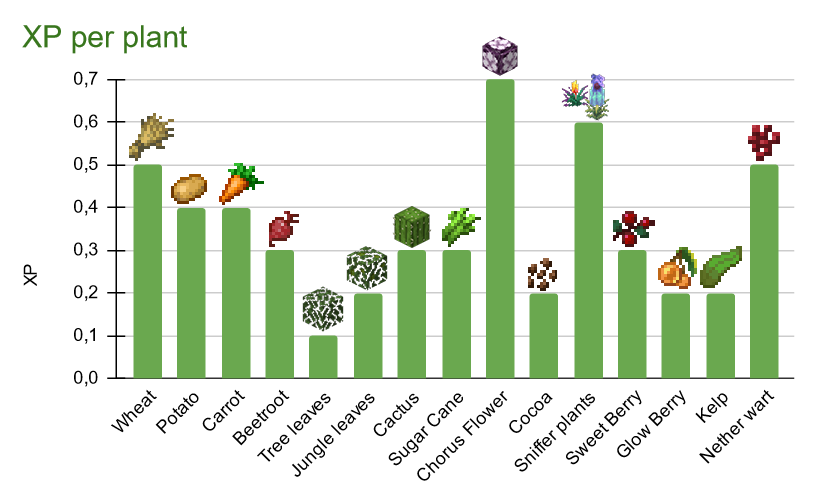
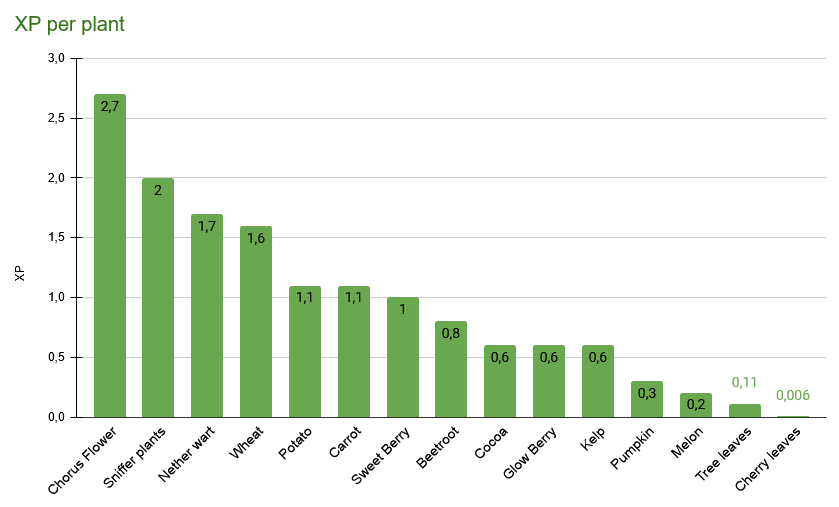
vegancraft 1.5.2

diff --git a/pages/vegancraft/main.md b/pages/vegancraft/main.md
@@ -4,19 +4,19 @@ keywords: minecraft, datapack, baking, cooking, food, vegan, veganism, plant-bas
 tags: [datapack, vegancraft, collection, crafting, food, info]
 sidebar: home_sidebar
 toc: true
-last_updated: 07/Oct/2025
+last_updated: 12/Nov/2025
 permalink: vegancraft.html
 published: true
 github: https://github.com/daenvil/vegancraft
 pmc-collection: https://www.planetminecraft.com/collection/162672/daenvil-s-vegancraft/
 first_release: ["17","Jun","2022"]
-last_release: ["06","Oct","2025"]
+last_release: ["12","Nov","2025"]
 logo: vegancraft/pack.png
 intro: "Vegancraft is a semi-modular datapack which makes a vegan gamestyle possible in a vanilla-like way without missing any game features. Tired of killing cows to make books and item frames? Tired of using sheep to make beds? This datapack is for you.<br/><br/>You can either download the full thing as a single datapack or <a href=#features>download some single features as individual datapacks</a>."
 abstract: "A merged version of every Vegancraft datapack, plus some additional features. Makes a vegan gamestyle possible in a vanilla-like way without missing any game features."
 index: 16
-downloads: 4229
-downloads_str: "&gt;4.2k"
+downloads: 4400
+downloads_str: "&gt;4.4k"
 ---
 
 ## Full datapack download
@@ -33,9 +33,9 @@ Choose the option compatible with your Minecraft version:
 <div class="tab-content">
     <div role="tabpanel" class="tab-pane active" id="1-21-9">
         <p>
-            {% include dp_badges.html supports="1.21.9+" tested="1.21.9" %}
+            {% include dp_badges.html supports="1.21.9+" tested="1.21.10" %}
             <br/>
-            {% include dp_download.html version="v1.5.1" github-url="https://github.com/daenvil/vegancraft/releases/download/v1.5.1/vegancraft-DP_v1.5.1.zip" rp-version="v1.5.1" rp-github-url="https://github.com/daenvil/vegancraft/releases/download/v1.5.1/vegancraft-RP_v1.5.1.zip" %}
+            {% include dp_download.html version="v1.5.2" github-url="https://github.com/daenvil/vegancraft/releases/download/v1.5.2/vegancraft-DP_v1.5.2.zip" rp-version="v1.5.1" rp-github-url="https://github.com/daenvil/vegancraft/releases/download/v1.5.1/vegancraft-RP_v1.5.1.zip" %}
         </p>
     </div>
     <div role="tabpanel" class="tab-pane" id="1-21-8">
@@ -186,17 +186,21 @@ A new feature that rewards players with experience for farming crops. Just as ki
 
 {% include comments/tip.html content='This feature can be toggled off/on by using the command "<b>/function dnv.vegancraft:toggle_xp_from_crops</b>". Turning it off is recommended if the server is laggy.' %}
 
-- Each plant has a certain chance to drop 1 XP. This chance is calculated based on how hard it is to reproduce and grow the plant and was balanced to be as equivalent as possible to farming animals.
-  - Certain plants do not drop any XP, either because of how easy they are to produce & harvest or because of other balance concerns. These are: bamboo, flowers, dripleaves, seagrass, vines, melons, and pumpkins. Mushrooms also are also not included for this reason. As for trees, breaking their leaves manually is the only way to obtain XP from them.
-- XP is only dropped when a player breaks the block. It's not dropped if the block is broken by explosions, pistons, etc.
+- Each plant has a certain chance to drop XP. This chance is calculated based on how hard it is to reproduce and grow the plant and was balanced to be as equivalent as possible to farming animals.
+  - Certain plants do not drop any XP, either because of how easy they are to produce & harvest or because of other balance concerns. These are: bamboo, flowers, dripleaves, seagrass, vines, and mushrooms. As for trees, they drop XP when their leaves break.
+- XP is dropped when the plant is broken, either by the player or by any other cause.
   - In the case of sweet and glow berries, XP is also obtained by harvesting them with right click.
-  - Only the block mentioned above drops XP, not any other block in the plant. For example, breaking a chorus plant does not drop XP, only directly breaking the flower does so.
   - Cactus and sugar cane do not currently drop any XP because of a bug in the game related to their block states. They will work correctly when Mojang fixes that bug.
-  - (Vegancraft only) In the case of sniffer plants (torchflower and pitcher plant), they will not drop XP from harvesting the plant with silk touch or shears. They will only do so if broken with any other tool.
+  - In the case of sniffer plants (torchflower and pitcher plant), they will not drop XP from harvesting the plant with silk touch or shears.
+
+{% include comments/tip.html content='The following command can be used to toggle on or off dropping XP from non-player interactions "<b>/function dnv.vegancraft:toggle_xp_from_crops_require_player</b>". Turning it on will require players to directly break the plants in order for them to drop xp. This is recommended if the server is laggy.' %}
+
 - XP is NOT dropped from player-placed blocks. Some plants, like kelp or chorus flowers, are planted by placing the block, but they will only drop XP after they have grown. In summary: **you can't farm XP by repeteadly placing and breaking the same block**, you will have to at least wait for the plant to grow.
-- To prevent exploiting this mechanic by using fast semi-automatic farms or spamming bone meal, **if a player gains a lot of XP in a small period of time, the chances for XP to drop will decrease for that player** until enough time has passed. The chances start decreasing at 200 gained XP and will drop to zero at 600 XP; from there, it will take ~6 minutes for the chances to recover their regular values. This system would cap at 64 XP/minute in an ideal ultra-fast farm (probably lower in a real case), which is still lower than most mob farms.
+- To prevent exploiting this mechanic by using fast semi-automatic farms or spamming bone meal, **if a player gains a lot of XP in a small period of time, the chances for XP to drop will decrease for that player** until enough time has passed. The chances start decreasing at 200 gained XP and will drop to zero at 600 XP; from there, it will take ~6 minutes for the chances to recover their regular values.
 
 {% include image/figure.html src='vegancraft/xp_per_crop.png' align='center' style='max-width:100%;' caption='Chance that each crop has to drop 1 XP. Note that XP is only dropped when a block is directly broken by a player.'%}
+
+{% include comments/tip.html content='Server admins can customize the XP output by a certain multiplier. Use the command "<b>/scoreboard players set #dnv dnv.xp_from_crops_multiplier &lt;X&gt;", replacing &lt;X&gt; by an integer number between 1 and 50, to apply that number as a multiplier to all XP given by this mechanic.' %}
 
 #### Copper Horns
 

diff --git a/pages/vegancraft/magnet_fishing.md b/pages/vegancraft/magnet_fishing.md
@@ -4,13 +4,13 @@ keywords: minecraft, datapack, fishing, iron, junk, scrap, vegan, veganism, paci
 tags: [datapack, vegancraft, standalone, simple]
 sidebar: home_sidebar
 toc: true
-last_updated: 07/Oct/2025
+last_updated: 12/Nov/2025
 permalink: magnet_fishing.html
 published: true
 github: https://github.com/daenvil/vegancraft
 pmc: https://www.planetminecraft.com/data-pack/magnet-fishing/
 first_release: ["16","Apr","2023"]
-last_release: ["06","Oct","2025"]
+last_release: ["12","Nov","2025"]
 logo: vegancraft/magnet_fishing/pack.png
 thumbnail: vegancraft/magnet_fishing/thumbnail.png
 intro: "A datapack that adds a magnet fishing rod, with which you can fish iron and iron items."
@@ -34,7 +34,7 @@ Choose the option compatible with your Minecraft version:
         <p>
             {% include dp_badges.html supports="1.21.9+" tested="1.21.9" %}
             <br/>
-            {% include dp_download.html version="v2.2.2" pmc-url="https://www.planetminecraft.com/data-pack/magnet-fishing/" github-url="https://github.com/daenvil/vegancraft/releases/download/v1.5.1/magnet_fishing_v2.2.2.zip" rp-version="v1.5.1" rp-github-url="https://github.com/daenvil/vegancraft/releases/download/v1.5.1/vegancraft-RP_v1.5.1.zip" %}
+            {% include dp_download.html version="v2.2.3" pmc-url="https://www.planetminecraft.com/data-pack/magnet-fishing/" github-url="https://github.com/daenvil/vegancraft/releases/download/v1.5.2/magnet_fishing_v2.2.3.zip" rp-version="v1.5.1" rp-github-url="https://github.com/daenvil/vegancraft/releases/download/v1.5.1/vegancraft-RP_v1.5.1.zip" %}
         </p>
     </div>
     <div role="tabpanel" class="tab-pane" id="1-21-5">

diff --git a/pages/recyclecraft/more_smeltable_items.md b/pages/recyclecraft/more_smeltable_items.md
@@ -4,7 +4,7 @@ keywords: minecraft, datapack
 tags: [datapack, recyclecraft, standalone, QoL, simple]
 sidebar: home_sidebar
 toc: true
-last_updated: 11/Oct/2025
+last_updated: 12/Nov/2025
 permalink: more_smeltable_items.html
 published: true
 pmc: https://www.planetminecraft.com/data-pack/more-smeltable-items/
@@ -16,8 +16,8 @@ intro: "Do you have tons of items that you will never use hanging around? This d
 abstract: "Adds smelting recipes to every item made of gold, iron, copper, diamond, or quartz."
 priority: 4
 index: 2
-downloads: 3670 # ~3680 before redirecting to modrinth
-downloads_str: "&gt;3.6k"
+downloads: 3800 # ~3680 before redirecting to modrinth
+downloads_str: "&gt;3.8k"
 thumbnail: recyclecraft/more_smeltable_items/thumbnail.png
 gallery: [images/recyclecraft/more_smeltable_items/thumbnail.png,https://static.planetminecraft.com/files/image/minecraft/data-pack/2021/775/15125173-screenshot-at_l.webp,https://static.planetminecraft.com/files/image/minecraft/data-pack/2021/775/15125167-screenshot-at_l.webp,https://static.planetminecraft.com/files/image/minecraft/data-pack/2021/775/15125169-screenshot-at_l.webp,https://static.planetminecraft.com/files/image/minecraft/data-pack/2021/775/15125170-screenshot-at_l.webp,https://static.planetminecraft.com/files/image/minecraft/data-pack/2021/775/15125176-screenshot-at_l.webp]
 ---

diff --git a/pages/recyclecraft/cuttable_wood.md b/pages/recyclecraft/cuttable_wood.md
@@ -4,7 +4,7 @@ keywords: minecraft, datapack
 tags: [datapack, recyclecraft, standalone, QoL, crafting]
 sidebar: home_sidebar
 toc: true
-last_updated: 06/Oct/2025
+last_updated: 12/Nov/2025
 permalink: cuttable_wood.html
 published: true
 modrinth: https://modrinth.com/datapack/cuttable-wood
@@ -17,8 +17,8 @@ intro: "A datapack that adds new recipes for the stonecutter, to make the crafti
 abstract: "Makes wood blocks cuttable in the stonecutter, to make the crafting of wooden items more comfortable and sensible."
 priority: 2
 index: 1
-downloads: 17300 # 17300 on pmc before redirecting to modrinth
-downloads_str: "&gt;17k"
+downloads: 18150 # 17300 on pmc before redirecting to modrinth
+downloads_str: "&gt;18k"
 gallery: [images/recyclecraft/cuttable_wood/thumbnail.png,images/recyclecraft/cuttable_wood/thumbnail-mc1.20.png,https://static.planetminecraft.com/files/image/minecraft/data-pack/2023/836/16842581_l.webp,https://static.planetminecraft.com/files/image/minecraft/data-pack/2023/836/16842582_l.webp,https://static.planetminecraft.com/files/image/minecraft/data-pack/2023/836/16842585_l.webp,https://static.planetminecraft.com/files/image/minecraft/data-pack/2021/836/15140459-screenshot-at_l.webp]
 ---
 

diff --git a/pages/recyclecraft/more_compostable_items.md b/pages/recyclecraft/more_compostable_items.md
@@ -4,7 +4,7 @@ keywords: minecraft, datapack
 tags: [datapack, recyclecraft, standalone, QoL]
 sidebar: home_sidebar
 toc: true
-last_updated: 06/Oct/2025
+last_updated: 12/Nov/2025
 permalink: more_compostable_items.html
 published: true
 github: https://github.com/daenvil/more_compostable_items/
@@ -17,8 +17,8 @@ intro: "This datapack aims to add composting mechanics to all vanilla items whic
 abstract: "Adds composting mechanics to all vanilla items which should be compostable."
 priority: 1
 index: 6
-downloads: 7050 # 7000 on pmc before redirecting to modrinth
-downloads_str: "&gt;7k"
+downloads: 7681 # 7000 on pmc before redirecting to modrinth
+downloads_str: "&gt;7.6k"
 thumbnail: recyclecraft/more_compostable_items/thumbnail.png
 gallery: [images/recyclecraft/more_compostable_items/thumbnail.png]
 ---

diff --git a/_includes/changelogs/vegancraft/v1.5.2.md b/_includes/changelogs/vegancraft/v1.5.2.md
@@ -1,0 +1,11 @@
+
+Additions:
+
+- Added new public commands (require admin privileges or cheats enabled):
+	- ``dnv.vegancraft:toggle_xp_from_crops_require_player``: controls whether xp drops from crops when they are destroyed by anything other than a player. Basically allows for AFK xp farms. I recommend requiring players if the server is laggy.
+	- ``scoreboard players set #dnv dnv.xp_from_crops_multiplier <X>``: replace ``<X>`` by an integer number between 1 and 50 (default 1). Multiplies all xp obtained from crops by that number.
+
+Changes:
+
+- Re-balanced all xp granted by crops (now it's a bit higher by default), check the website for all the values
+- Slightly reduced chances of getting crossbows, fishing rods, and tridents from magnet fishing treasure

diff --git a/_posts/magnet_fishing/2025-11-12-magnet_fishing_v2.2.3.md b/_posts/magnet_fishing/2025-11-12-magnet_fishing_v2.2.3.md
@@ -1,0 +1,14 @@
+---
+title:  "Magnet Fishing - 2.2.3 update"
+published: true
+permalink: magnet_fishing_v2.2.3.html
+summary: "Minor rebalance of treasure loot"
+tags: [news,changelog,vegancraft]
+datapack: magnet_fishing
+changelog: v2.2.3
+---
+
+<div class="btn-group">
+    <a href="magnet_fishing_v2.2.2.html" role="button" class="btn btn-primary"><i class="fa fa-caret-left"></i>&nbsp; Previous release: v2.2.2</a>
+    <button role="button" class="btn btn-default disabled">Next release: TBR &nbsp;<i class="fa fa-caret-right"></i> </button>
+</div>

diff --git a/_posts/vegancraft/2025-11-12-vegancraft_v1.5.2.md b/_posts/vegancraft/2025-11-12-vegancraft_v1.5.2.md
@@ -1,0 +1,14 @@
+---
+title:  "Vegancraft - 1.5.2 update"
+published: true
+permalink: vegancraft_v1.5.2.html
+summary: "Farming XP improvements"
+tags: [news,changelog,vegancraft]
+datapack: vegancraft
+changelog: v1.5.2
+---
+
+<div class="btn-group">
+    <a href="vegancraft_v1.5.1.html" role="button" class="btn btn-primary"><i class="fa fa-caret-left"></i>&nbsp; Previous release: v1.5.1</a>
+    <button role="button" class="btn btn-default disabled">Next release: TBR &nbsp;<i class="fa fa-caret-right"></i> </button>
+</div>

diff --git a/_posts/magnet_fishing/2025-10-07-magnet_fishing_v2.2.2.md b/_posts/magnet_fishing/2025-10-07-magnet_fishing_v2.2.2.md
@@ -10,5 +10,5 @@ changelog: v2.2.2
 
 <div class="btn-group">
     <a href="magnet_fishing_v2.2.1.html" role="button" class="btn btn-primary"><i class="fa fa-caret-left"></i>&nbsp; Previous release: v2.2.1</a>
-    <button role="button" class="btn btn-default disabled">Next release: TBR &nbsp;<i class="fa fa-caret-right"></i> </button>
+    <a href="magnet_fishing_v2.2.3.html" role="button" class="btn btn-primary">Next release: v2.2.3 &nbsp;<i class="fa fa-caret-right"></i></a>
 </div>

diff --git a/_posts/vegancraft/2025-10-07-vegancraft_v1.5.1.md b/_posts/vegancraft/2025-10-07-vegancraft_v1.5.1.md
@@ -10,5 +10,5 @@ changelog: v1.5.1
 
 <div class="btn-group">
     <a href="vegancraft_v1.5.html" role="button" class="btn btn-primary"><i class="fa fa-caret-left"></i>&nbsp; Previous release: v1.5</a>
-    <button role="button" class="btn btn-default disabled">Next release: TBR &nbsp;<i class="fa fa-caret-right"></i> </button>
+    <a href="vegancraft_v1.5.2.html" role="button" class="btn btn-primary">Next release: v1.5.2 &nbsp;<i class="fa fa-caret-right"></i></a>
 </div>

diff --git a/_includes/changelogs/magnet_fishing/v2.2.3.md b/_includes/changelogs/magnet_fishing/v2.2.3.md
@@ -1,0 +1,2 @@
+
+- Slightly reduced chances of getting crossbows, fishing rods, and tridents from magnet fishing treasure
